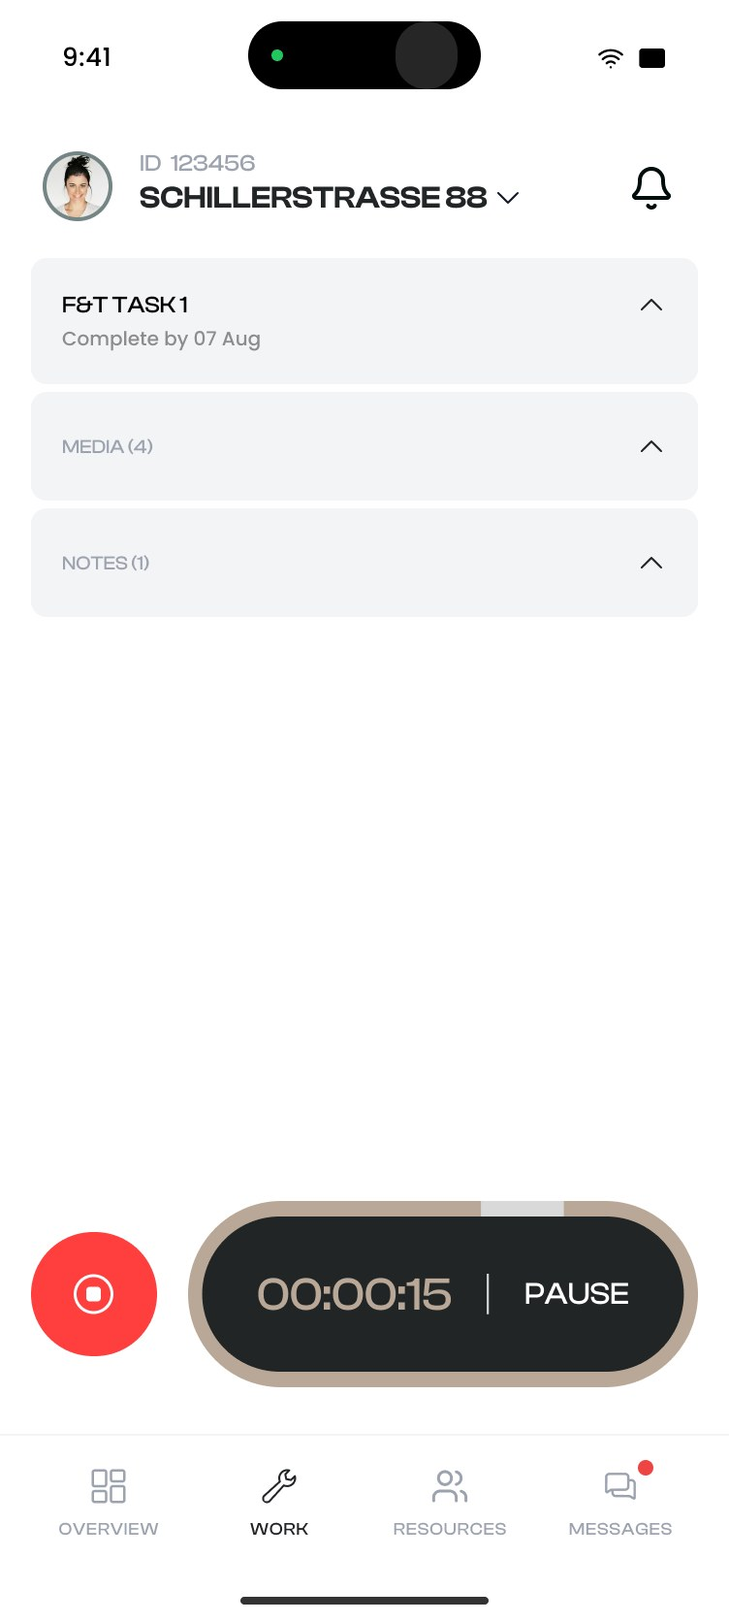
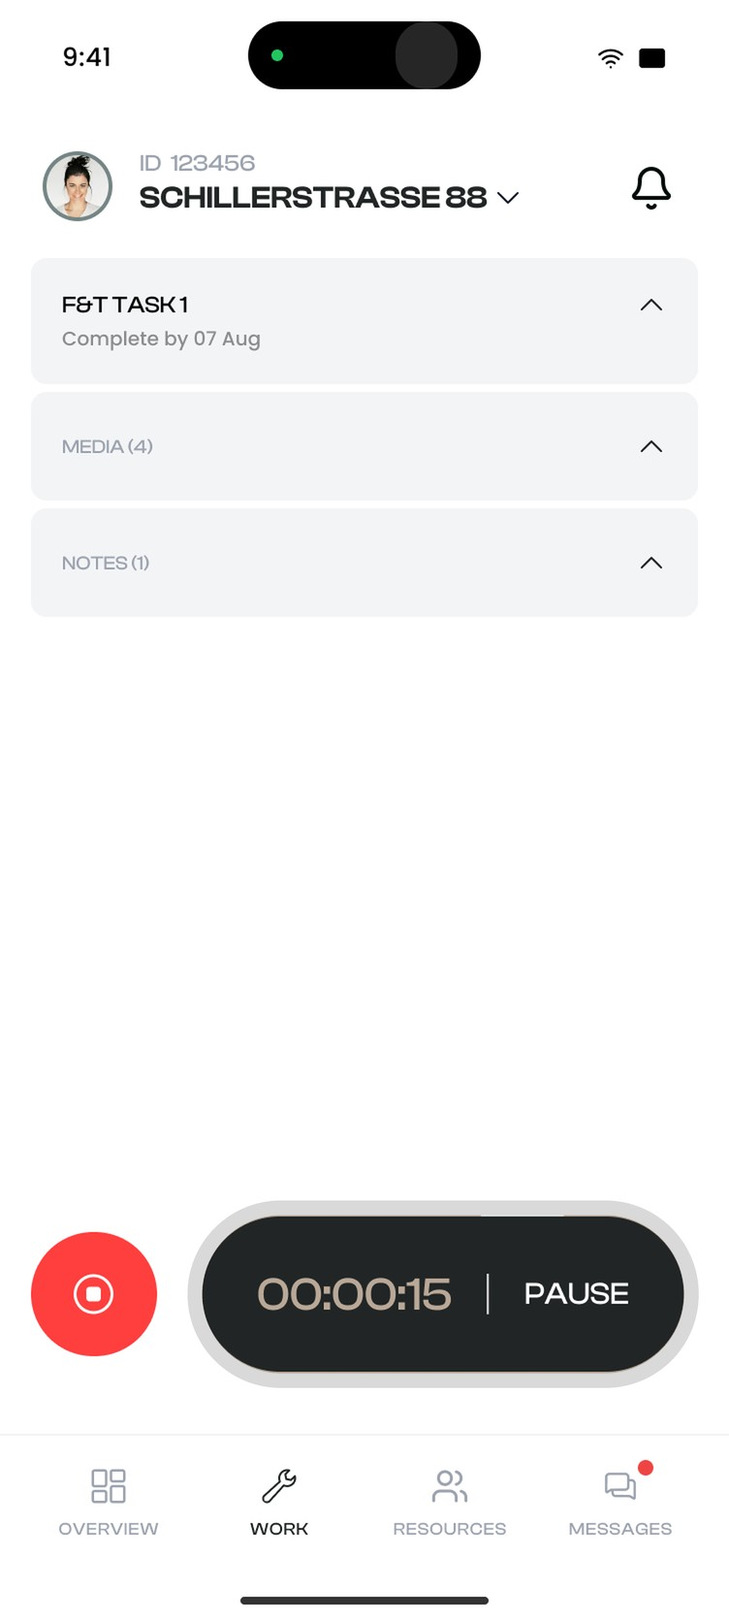
Buildlr timer: grey ring fills bronze clockwise from the top, an hour in ~10s on loop, no pause control
Claude-Session: https://claude.ai/code/session_01MkzssbiWjDzMdy79T6ptKv

Changed region(s): [[0.2447, 0.7153, 0.9787, 0.8708]]

diff --git a/public/de/buildlr.html b/public/de/buildlr.html
@@ -102,22 +102,14 @@
   .tmr { position: relative; border-radius: 22px; overflow: hidden; }
   .tm-st { position: absolute; left: 0; top: 0; width: 752px; height: 1672px; transform-origin: 0 0; pointer-events: none; }
   .tm-st svg { position: absolute; inset: 0; width: 752px; height: 1672px; overflow: visible; }
-  .tm-st rect { fill: none; stroke-width: 17; }
-  /* activity ring: grey fills the tan track clockwise from the top as the task runs toward an hour, as in the Figma design */
-  .tm-base { stroke: #b9a898; }
-  .tm-run { stroke: #d9d9d9; stroke-dasharray: 0 1000; stroke-dashoffset: -137; transition: stroke-dasharray 1s linear; }
+  .tm-st rect { fill: none; stroke-width: 16.5; }
+  /* activity ring: a grey track that fills in bronze, clockwise from the top, as the task runs toward an hour (sped up here) */
+  .tm-base { stroke: #d9d9d9; }
+  .tm-run { stroke: #b9a898; stroke-dasharray: 0 1000; stroke-dashoffset: -137; }
   .tm-cover { position: absolute; background: #212525; }
   .tm-t { position: absolute; left: 266px; top: 1334px; width: 200px; transform: translateY(-50%); font: 500 44px/1 "Clash Display", "Archivo", sans-serif; color: #b9a898; white-space: nowrap; font-variant-numeric: tabular-nums; transform-origin: 0 50%; }
-  .tm-btn { position: absolute; left: 532px; top: 1308px; width: 128px; height: 52px; display: grid; place-items: center; pointer-events: auto; cursor: pointer;
-    font: 500 30px/1 "Clash Display", "Archivo", sans-serif; color: #fff; letter-spacing: .01em; background: #212525; border-radius: 8px; }
-  .tm-btn:focus-visible { outline: 2px solid #fff; outline-offset: 2px; }
   .tm-pulse { position: absolute; left: 33px; top: 1270px; width: 128px; height: 128px; border-radius: 50%; box-shadow: 0 0 0 0 rgba(255,63,62,.45); animation: tmPulse 1.6s ease-out infinite; }
   @keyframes tmPulse { to { box-shadow: 0 0 0 18px rgba(255,63,62,0); } }
-  .tmr.paused .tm-run, .tmr.paused .tm-pulse { animation-play-state: paused; }
-  .tmr.paused .tm-pulse { opacity: 0; }
-  /* paused, as in the design: the ring goes grey and the time dims */
-  .tmr.paused .tm-base { stroke: #d9d9d9; }
-  .tmr.paused .tm-t { color: #3c4141; }
   @media (prefers-reduced-motion: reduce) { .tm-run, .tm-pulse { animation: none; } }
 
   /* ---------- Prompt layers ---------- */
@@ -737,7 +729,7 @@
 <div class="phones flat">
 <figure><img alt="Mobiler Specs-Tab mit Raum-Chips, einem Akkordeon für Boden- und Fliesenarbeiten und einer Aufgabenkarte mit Parametern" height="2086" loading="lazy" src="../assets/bl-m-specs.jpg" width="752"/><figcaption><b>Specs</b>Räume als Chips, Aufgaben als Karten.</figcaption></figure>
 <figure><img alt="Aufgabendetails mit Parametern, vier Fotos von der Baustelle und einer Notiz aus dem Team vor Ort" height="2086" loading="lazy" src="../assets/bl-m-media.jpg" width="752"/><figcaption><b>Aufgabendetails</b>Fotos und Notizen von der Baustelle.</figcaption></figure>
-<figure><div class="tmr" id="blTimer"><img alt="Die Aufgabe, zusammengeklappt auf drei Überschriften, mit laufendem Timer und Pause-Button" height="1672" loading="lazy" src="../assets/bl-m-timer.jpg" width="752"/><div class="tm-st" translate="no"><svg aria-hidden="true" viewbox="0 0 752 1672"><rect class="tm-base" height="176" pathlength="1000" rx="88" width="510" x="202" y="1246"></rect><rect class="tm-run" height="176" pathlength="1000" rx="88" width="510" x="202" y="1246"></rect></svg><span aria-hidden="true" class="tm-pulse"></span><span aria-hidden="true" class="tm-cover" style="left:256px;top:1294px;width:232px;height:80px"></span><b aria-hidden="true" class="tm-t">00:21:15</b><button aria-label="Pause the timer" class="tm-btn" type="button">PAUSE</button></div></div><figcaption><b>In Arbeit</b>Drei Überschriften und ein Timer.</figcaption></figure>
+<figure><div class="tmr" id="blTimer"><img alt="Die Aufgabe, zusammengeklappt auf drei Überschriften, mit laufendem Timer und Pause-Button" height="1672" loading="lazy" src="../assets/bl-m-timer.jpg" width="752"/><div class="tm-st" translate="no"><svg aria-hidden="true" viewbox="0 0 752 1672"><rect class="tm-base" height="178" pathlength="1000" rx="89" width="512" x="201" y="1245"></rect><rect class="tm-run" height="178" pathlength="1000" rx="89" width="512" x="201" y="1245"></rect></svg><span aria-hidden="true" class="tm-pulse"></span><span aria-hidden="true" class="tm-cover" style="left:256px;top:1294px;width:232px;height:80px"></span><b aria-hidden="true" class="tm-t">00:00:00</b></div></div><figcaption><b>In Arbeit</b>Drei Überschriften und ein Timer.</figcaption></figure>
 </div>
 </div>
 </section>
@@ -895,28 +887,25 @@
 })();
 </script>
 <script>
-/* Buildlr field app: the task timer keeps running, and PAUSE works */
+/* Buildlr field app: the task timer, sped up so an hour passes in about ten seconds and the ring visibly fills */
 (() => {
   const box = document.getElementById('blTimer'); if (!box) return;
-  const st = box.querySelector('.tm-st'), t = box.querySelector('.tm-t'), btn = box.querySelector('.tm-btn');
+  const st = box.querySelector('.tm-st'), t = box.querySelector('.tm-t'), ring = box.querySelector('.tm-run');
   new ResizeObserver(() => st.style.transform = `scale(${box.clientWidth / 752})`).observe(box);
   const fit = () => { t.style.transform = 'translateY(-50%)'; const w = t.scrollWidth; if (w) t.style.transform = `translateY(-50%) scaleX(${200 / w})`; };
   (document.fonts ? document.fonts.ready : Promise.resolve()).then(fit);
-  // starts part-way into an hour so the ring has something to show; it keeps filling one second at a time
-  let sec = 21 * 60 + 15, timer = null, paused = false;
-  const ring = box.querySelector('.tm-run');
   const pad = n => String(n).padStart(2, '0');
-  const show = () => { t.textContent = `${pad(Math.floor(sec / 3600))}:${pad(Math.floor(sec / 60) % 60)}:${pad(sec % 60)}`;
-    const f = Math.min(sec / 3600, 1) * 1000; ring.style.strokeDasharray = `${f} ${1000 - f}`; };
-  show();
-  const run = () => { clearInterval(timer); timer = setInterval(() => { sec++; show(); }, 1000); };
-  btn.addEventListener('click', () => {
-    paused = !paused; box.classList.toggle('paused', paused);
-    btn.textContent = paused ? 'RESUME' : 'PAUSE'; btn.setAttribute('aria-label', paused ? 'Resume the timer' : 'Pause the timer');
-    paused ? clearInterval(timer) : run();
-  });
-  if (matchMedia('(prefers-reduced-motion: reduce)').matches) return;
-  new IntersectionObserver(es => es.forEach(e => { if (e.isIntersecting && !paused) run(); else clearInterval(timer); }), { threshold: .3 }).observe(box);
+  const show = sec => { sec = Math.min(Math.floor(sec), 3600);
+    t.textContent = `${pad(Math.floor(sec / 3600))}:${pad(Math.floor(sec / 60) % 60)}:${pad(sec % 60)}`;
+    const f = sec / 3600 * 1000; ring.style.strokeDasharray = `${f} ${1000 - f}`; };
+  if (matchMedia('(prefers-reduced-motion: reduce)').matches) { show(21 * 60 + 15); return; }
+  const HOUR = 10000, HOLD = 1600; // ms for a full hour, then a short pause on a full ring
+  let raf = 0, t0 = 0;
+  const tick = now => { if (!t0) t0 = now; const e = now - t0;
+    if (e < HOUR) show(e / HOUR * 3600); else { show(3600); if (e > HOUR + HOLD) t0 = now; }
+    raf = requestAnimationFrame(tick); };
+  show(0);
+  new IntersectionObserver(es => es.forEach(e => { cancelAnimationFrame(raf); if (e.isIntersecting) { t0 = 0; raf = requestAnimationFrame(tick); } }), { threshold: .3 }).observe(box);
 })();
 </script>
 </body>

diff --git a/public/zh-hans/buildlr.html b/public/zh-hans/buildlr.html
@@ -102,22 +102,14 @@
   .tmr { position: relative; border-radius: 22px; overflow: hidden; }
   .tm-st { position: absolute; left: 0; top: 0; width: 752px; height: 1672px; transform-origin: 0 0; pointer-events: none; }
   .tm-st svg { position: absolute; inset: 0; width: 752px; height: 1672px; overflow: visible; }
-  .tm-st rect { fill: none; stroke-width: 17; }
-  /* activity ring: grey fills the tan track clockwise from the top as the task runs toward an hour, as in the Figma design */
-  .tm-base { stroke: #b9a898; }
-  .tm-run { stroke: #d9d9d9; stroke-dasharray: 0 1000; stroke-dashoffset: -137; transition: stroke-dasharray 1s linear; }
+  .tm-st rect { fill: none; stroke-width: 16.5; }
+  /* activity ring: a grey track that fills in bronze, clockwise from the top, as the task runs toward an hour (sped up here) */
+  .tm-base { stroke: #d9d9d9; }
+  .tm-run { stroke: #b9a898; stroke-dasharray: 0 1000; stroke-dashoffset: -137; }
   .tm-cover { position: absolute; background: #212525; }
   .tm-t { position: absolute; left: 266px; top: 1334px; width: 200px; transform: translateY(-50%); font: 500 44px/1 "Clash Display", "Archivo", sans-serif; color: #b9a898; white-space: nowrap; font-variant-numeric: tabular-nums; transform-origin: 0 50%; }
-  .tm-btn { position: absolute; left: 532px; top: 1308px; width: 128px; height: 52px; display: grid; place-items: center; pointer-events: auto; cursor: pointer;
-    font: 500 30px/1 "Clash Display", "Archivo", sans-serif; color: #fff; letter-spacing: .01em; background: #212525; border-radius: 8px; }
-  .tm-btn:focus-visible { outline: 2px solid #fff; outline-offset: 2px; }
   .tm-pulse { position: absolute; left: 33px; top: 1270px; width: 128px; height: 128px; border-radius: 50%; box-shadow: 0 0 0 0 rgba(255,63,62,.45); animation: tmPulse 1.6s ease-out infinite; }
   @keyframes tmPulse { to { box-shadow: 0 0 0 18px rgba(255,63,62,0); } }
-  .tmr.paused .tm-run, .tmr.paused .tm-pulse { animation-play-state: paused; }
-  .tmr.paused .tm-pulse { opacity: 0; }
-  /* paused, as in the design: the ring goes grey and the time dims */
-  .tmr.paused .tm-base { stroke: #d9d9d9; }
-  .tmr.paused .tm-t { color: #3c4141; }
   @media (prefers-reduced-motion: reduce) { .tm-run, .tm-pulse { animation: none; } }
 
   /* ---------- Prompt layers ---------- */
@@ -738,7 +730,7 @@
 <div class="phones flat">
 <figure><img alt="移动端规格页，包含房间标签、“地板与瓷砖”折叠面板和带参数的任务卡片" height="2086" loading="lazy" src="../assets/bl-m-specs.jpg" width="752"/><figcaption><b>规格</b>房间做成标签，任务做成卡片。</figcaption></figure>
 <figure><img alt="任务详情，包含参数、四张现场照片和工人的备注" height="2086" loading="lazy" src="../assets/bl-m-media.jpg" width="752"/><figcaption><b>任务详情</b>来自现场的照片和备注。</figcaption></figure>
-<figure><div class="tmr" id="blTimer"><img alt="收起后的任务，只剩三个标题、一个正在计时的计时器和暂停按钮" height="1672" loading="lazy" src="../assets/bl-m-timer.jpg" width="752"/><div class="tm-st" translate="no"><svg aria-hidden="true" viewbox="0 0 752 1672"><rect class="tm-base" height="176" pathlength="1000" rx="88" width="510" x="202" y="1246"></rect><rect class="tm-run" height="176" pathlength="1000" rx="88" width="510" x="202" y="1246"></rect></svg><span aria-hidden="true" class="tm-pulse"></span><span aria-hidden="true" class="tm-cover" style="left:256px;top:1294px;width:232px;height:80px"></span><b aria-hidden="true" class="tm-t">00:21:15</b><button aria-label="Pause the timer" class="tm-btn" type="button">PAUSE</button></div></div><figcaption><b>进行中</b>三个标题，一个计时器。</figcaption></figure>
+<figure><div class="tmr" id="blTimer"><img alt="收起后的任务，只剩三个标题、一个正在计时的计时器和暂停按钮" height="1672" loading="lazy" src="../assets/bl-m-timer.jpg" width="752"/><div class="tm-st" translate="no"><svg aria-hidden="true" viewbox="0 0 752 1672"><rect class="tm-base" height="178" pathlength="1000" rx="89" width="512" x="201" y="1245"></rect><rect class="tm-run" height="178" pathlength="1000" rx="89" width="512" x="201" y="1245"></rect></svg><span aria-hidden="true" class="tm-pulse"></span><span aria-hidden="true" class="tm-cover" style="left:256px;top:1294px;width:232px;height:80px"></span><b aria-hidden="true" class="tm-t">00:00:00</b></div></div><figcaption><b>进行中</b>三个标题，一个计时器。</figcaption></figure>
 </div>
 </div>
 </section>
@@ -896,28 +888,25 @@
 })();
 </script>
 <script>
-/* Buildlr field app: the task timer keeps running, and PAUSE works */
+/* Buildlr field app: the task timer, sped up so an hour passes in about ten seconds and the ring visibly fills */
 (() => {
   const box = document.getElementById('blTimer'); if (!box) return;
-  const st = box.querySelector('.tm-st'), t = box.querySelector('.tm-t'), btn = box.querySelector('.tm-btn');
+  const st = box.querySelector('.tm-st'), t = box.querySelector('.tm-t'), ring = box.querySelector('.tm-run');
   new ResizeObserver(() => st.style.transform = `scale(${box.clientWidth / 752})`).observe(box);
   const fit = () => { t.style.transform = 'translateY(-50%)'; const w = t.scrollWidth; if (w) t.style.transform = `translateY(-50%) scaleX(${200 / w})`; };
   (document.fonts ? document.fonts.ready : Promise.resolve()).then(fit);
-  // starts part-way into an hour so the ring has something to show; it keeps filling one second at a time
-  let sec = 21 * 60 + 15, timer = null, paused = false;
-  const ring = box.querySelector('.tm-run');
   const pad = n => String(n).padStart(2, '0');
-  const show = () => { t.textContent = `${pad(Math.floor(sec / 3600))}:${pad(Math.floor(sec / 60) % 60)}:${pad(sec % 60)}`;
-    const f = Math.min(sec / 3600, 1) * 1000; ring.style.strokeDasharray = `${f} ${1000 - f}`; };
-  show();
-  const run = () => { clearInterval(timer); timer = setInterval(() => { sec++; show(); }, 1000); };
-  btn.addEventListener('click', () => {
-    paused = !paused; box.classList.toggle('paused', paused);
-    btn.textContent = paused ? 'RESUME' : 'PAUSE'; btn.setAttribute('aria-label', paused ? 'Resume the timer' : 'Pause the timer');
-    paused ? clearInterval(timer) : run();
-  });
-  if (matchMedia('(prefers-reduced-motion: reduce)').matches) return;
-  new IntersectionObserver(es => es.forEach(e => { if (e.isIntersecting && !paused) run(); else clearInterval(timer); }), { threshold: .3 }).observe(box);
+  const show = sec => { sec = Math.min(Math.floor(sec), 3600);
+    t.textContent = `${pad(Math.floor(sec / 3600))}:${pad(Math.floor(sec / 60) % 60)}:${pad(sec % 60)}`;
+    const f = sec / 3600 * 1000; ring.style.strokeDasharray = `${f} ${1000 - f}`; };
+  if (matchMedia('(prefers-reduced-motion: reduce)').matches) { show(21 * 60 + 15); return; }
+  const HOUR = 10000, HOLD = 1600; // ms for a full hour, then a short pause on a full ring
+  let raf = 0, t0 = 0;
+  const tick = now => { if (!t0) t0 = now; const e = now - t0;
+    if (e < HOUR) show(e / HOUR * 3600); else { show(3600); if (e > HOUR + HOLD) t0 = now; }
+    raf = requestAnimationFrame(tick); };
+  show(0);
+  new IntersectionObserver(es => es.forEach(e => { cancelAnimationFrame(raf); if (e.isIntersecting) { t0 = 0; raf = requestAnimationFrame(tick); } }), { threshold: .3 }).observe(box);
 })();
 </script>
 </body>

diff --git a/public/ko/buildlr.html b/public/ko/buildlr.html
@@ -102,22 +102,14 @@
   .tmr { position: relative; border-radius: 22px; overflow: hidden; }
   .tm-st { position: absolute; left: 0; top: 0; width: 752px; height: 1672px; transform-origin: 0 0; pointer-events: none; }
   .tm-st svg { position: absolute; inset: 0; width: 752px; height: 1672px; overflow: visible; }
-  .tm-st rect { fill: none; stroke-width: 17; }
-  /* activity ring: grey fills the tan track clockwise from the top as the task runs toward an hour, as in the Figma design */
-  .tm-base { stroke: #b9a898; }
-  .tm-run { stroke: #d9d9d9; stroke-dasharray: 0 1000; stroke-dashoffset: -137; transition: stroke-dasharray 1s linear; }
+  .tm-st rect { fill: none; stroke-width: 16.5; }
+  /* activity ring: a grey track that fills in bronze, clockwise from the top, as the task runs toward an hour (sped up here) */
+  .tm-base { stroke: #d9d9d9; }
+  .tm-run { stroke: #b9a898; stroke-dasharray: 0 1000; stroke-dashoffset: -137; }
   .tm-cover { position: absolute; background: #212525; }
   .tm-t { position: absolute; left: 266px; top: 1334px; width: 200px; transform: translateY(-50%); font: 500 44px/1 "Clash Display", "Archivo", sans-serif; color: #b9a898; white-space: nowrap; font-variant-numeric: tabular-nums; transform-origin: 0 50%; }
-  .tm-btn { position: absolute; left: 532px; top: 1308px; width: 128px; height: 52px; display: grid; place-items: center; pointer-events: auto; cursor: pointer;
-    font: 500 30px/1 "Clash Display", "Archivo", sans-serif; color: #fff; letter-spacing: .01em; background: #212525; border-radius: 8px; }
-  .tm-btn:focus-visible { outline: 2px solid #fff; outline-offset: 2px; }
   .tm-pulse { position: absolute; left: 33px; top: 1270px; width: 128px; height: 128px; border-radius: 50%; box-shadow: 0 0 0 0 rgba(255,63,62,.45); animation: tmPulse 1.6s ease-out infinite; }
   @keyframes tmPulse { to { box-shadow: 0 0 0 18px rgba(255,63,62,0); } }
-  .tmr.paused .tm-run, .tmr.paused .tm-pulse { animation-play-state: paused; }
-  .tmr.paused .tm-pulse { opacity: 0; }
-  /* paused, as in the design: the ring goes grey and the time dims */
-  .tmr.paused .tm-base { stroke: #d9d9d9; }
-  .tmr.paused .tm-t { color: #3c4141; }
   @media (prefers-reduced-motion: reduce) { .tm-run, .tm-pulse { animation: none; } }
 
   /* ---------- Prompt layers ---------- */
@@ -738,7 +730,7 @@
 <div class="phones flat">
 <figure><img alt="공간 칩, Flooring and tiling 아코디언, 파라미터가 있는 작업 카드가 보이는 모바일 사양 탭" height="2086" loading="lazy" src="../assets/bl-m-specs.jpg" width="752"/><figcaption><b>사양</b>공간은 칩으로, 작업은 카드로.</figcaption></figure>
 <figure><img alt="파라미터, 현장 사진 4장, 작업자 메모가 있는 작업 상세" height="2086" loading="lazy" src="../assets/bl-m-media.jpg" width="752"/><figcaption><b>작업 상세</b>현장 사진과 메모.</figcaption></figure>
-<figure><div class="tmr" id="blTimer"><img alt="실행 중인 타이머와 일시정지 버튼, 헤더 세 개로 접힌 작업" height="1672" loading="lazy" src="../assets/bl-m-timer.jpg" width="752"/><div class="tm-st" translate="no"><svg aria-hidden="true" viewbox="0 0 752 1672"><rect class="tm-base" height="176" pathlength="1000" rx="88" width="510" x="202" y="1246"></rect><rect class="tm-run" height="176" pathlength="1000" rx="88" width="510" x="202" y="1246"></rect></svg><span aria-hidden="true" class="tm-pulse"></span><span aria-hidden="true" class="tm-cover" style="left:256px;top:1294px;width:232px;height:80px"></span><b aria-hidden="true" class="tm-t">00:21:15</b><button aria-label="Pause the timer" class="tm-btn" type="button">PAUSE</button></div></div><figcaption><b>작업 중</b>헤더 세 개와 타이머.</figcaption></figure>
+<figure><div class="tmr" id="blTimer"><img alt="실행 중인 타이머와 일시정지 버튼, 헤더 세 개로 접힌 작업" height="1672" loading="lazy" src="../assets/bl-m-timer.jpg" width="752"/><div class="tm-st" translate="no"><svg aria-hidden="true" viewbox="0 0 752 1672"><rect class="tm-base" height="178" pathlength="1000" rx="89" width="512" x="201" y="1245"></rect><rect class="tm-run" height="178" pathlength="1000" rx="89" width="512" x="201" y="1245"></rect></svg><span aria-hidden="true" class="tm-pulse"></span><span aria-hidden="true" class="tm-cover" style="left:256px;top:1294px;width:232px;height:80px"></span><b aria-hidden="true" class="tm-t">00:00:00</b></div></div><figcaption><b>작업 중</b>헤더 세 개와 타이머.</figcaption></figure>
 </div>
 </div>
 </section>
@@ -896,28 +888,25 @@
 })();
 </script>
 <script>
-/* Buildlr field app: the task timer keeps running, and PAUSE works */
+/* Buildlr field app: the task timer, sped up so an hour passes in about ten seconds and the ring visibly fills */
 (() => {
   const box = document.getElementById('blTimer'); if (!box) return;
-  const st = box.querySelector('.tm-st'), t = box.querySelector('.tm-t'), btn = box.querySelector('.tm-btn');
+  const st = box.querySelector('.tm-st'), t = box.querySelector('.tm-t'), ring = box.querySelector('.tm-run');
   new ResizeObserver(() => st.style.transform = `scale(${box.clientWidth / 752})`).observe(box);
   const fit = () => { t.style.transform = 'translateY(-50%)'; const w = t.scrollWidth; if (w) t.style.transform = `translateY(-50%) scaleX(${200 / w})`; };
   (document.fonts ? document.fonts.ready : Promise.resolve()).then(fit);
-  // starts part-way into an hour so the ring has something to show; it keeps filling one second at a time
-  let sec = 21 * 60 + 15, timer = null, paused = false;
-  const ring = box.querySelector('.tm-run');
   const pad = n => String(n).padStart(2, '0');
-  const show = () => { t.textContent = `${pad(Math.floor(sec / 3600))}:${pad(Math.floor(sec / 60) % 60)}:${pad(sec % 60)}`;
-    const f = Math.min(sec / 3600, 1) * 1000; ring.style.strokeDasharray = `${f} ${1000 - f}`; };
-  show();
-  const run = () => { clearInterval(timer); timer = setInterval(() => { sec++; show(); }, 1000); };
-  btn.addEventListener('click', () => {
-    paused = !paused; box.classList.toggle('paused', paused);
-    btn.textContent = paused ? 'RESUME' : 'PAUSE'; btn.setAttribute('aria-label', paused ? 'Resume the timer' : 'Pause the timer');
-    paused ? clearInterval(timer) : run();
-  });
-  if (matchMedia('(prefers-reduced-motion: reduce)').matches) return;
-  new IntersectionObserver(es => es.forEach(e => { if (e.isIntersecting && !paused) run(); else clearInterval(timer); }), { threshold: .3 }).observe(box);
+  const show = sec => { sec = Math.min(Math.floor(sec), 3600);
+    t.textContent = `${pad(Math.floor(sec / 3600))}:${pad(Math.floor(sec / 60) % 60)}:${pad(sec % 60)}`;
+    const f = sec / 3600 * 1000; ring.style.strokeDasharray = `${f} ${1000 - f}`; };
+  if (matchMedia('(prefers-reduced-motion: reduce)').matches) { show(21 * 60 + 15); return; }
+  const HOUR = 10000, HOLD = 1600; // ms for a full hour, then a short pause on a full ring
+  let raf = 0, t0 = 0;
+  const tick = now => { if (!t0) t0 = now; const e = now - t0;
+    if (e < HOUR) show(e / HOUR * 3600); else { show(3600); if (e > HOUR + HOLD) t0 = now; }
+    raf = requestAnimationFrame(tick); };
+  show(0);
+  new IntersectionObserver(es => es.forEach(e => { cancelAnimationFrame(raf); if (e.isIntersecting) { t0 = 0; raf = requestAnimationFrame(tick); } }), { threshold: .3 }).observe(box);
 })();
 </script>
 </body>

diff --git a/public/zh-hant/buildlr.html b/public/zh-hant/buildlr.html
@@ -102,22 +102,14 @@
   .tmr { position: relative; border-radius: 22px; overflow: hidden; }
   .tm-st { position: absolute; left: 0; top: 0; width: 752px; height: 1672px; transform-origin: 0 0; pointer-events: none; }
   .tm-st svg { position: absolute; inset: 0; width: 752px; height: 1672px; overflow: visible; }
-  .tm-st rect { fill: none; stroke-width: 17; }
-  /* activity ring: grey fills the tan track clockwise from the top as the task runs toward an hour, as in the Figma design */
-  .tm-base { stroke: #b9a898; }
-  .tm-run { stroke: #d9d9d9; stroke-dasharray: 0 1000; stroke-dashoffset: -137; transition: stroke-dasharray 1s linear; }
+  .tm-st rect { fill: none; stroke-width: 16.5; }
+  /* activity ring: a grey track that fills in bronze, clockwise from the top, as the task runs toward an hour (sped up here) */
+  .tm-base { stroke: #d9d9d9; }
+  .tm-run { stroke: #b9a898; stroke-dasharray: 0 1000; stroke-dashoffset: -137; }
   .tm-cover { position: absolute; background: #212525; }
   .tm-t { position: absolute; left: 266px; top: 1334px; width: 200px; transform: translateY(-50%); font: 500 44px/1 "Clash Display", "Archivo", sans-serif; color: #b9a898; white-space: nowrap; font-variant-numeric: tabular-nums; transform-origin: 0 50%; }
-  .tm-btn { position: absolute; left: 532px; top: 1308px; width: 128px; height: 52px; display: grid; place-items: center; pointer-events: auto; cursor: pointer;
-    font: 500 30px/1 "Clash Display", "Archivo", sans-serif; color: #fff; letter-spacing: .01em; background: #212525; border-radius: 8px; }
-  .tm-btn:focus-visible { outline: 2px solid #fff; outline-offset: 2px; }
   .tm-pulse { position: absolute; left: 33px; top: 1270px; width: 128px; height: 128px; border-radius: 50%; box-shadow: 0 0 0 0 rgba(255,63,62,.45); animation: tmPulse 1.6s ease-out infinite; }
   @keyframes tmPulse { to { box-shadow: 0 0 0 18px rgba(255,63,62,0); } }
-  .tmr.paused .tm-run, .tmr.paused .tm-pulse { animation-play-state: paused; }
-  .tmr.paused .tm-pulse { opacity: 0; }
-  /* paused, as in the design: the ring goes grey and the time dims */
-  .tmr.paused .tm-base { stroke: #d9d9d9; }
-  .tmr.paused .tm-t { color: #3c4141; }
   @media (prefers-reduced-motion: reduce) { .tm-run, .tm-pulse { animation: none; } }
 
   /* ---------- Prompt layers ---------- */
@@ -738,7 +730,7 @@
 <div class="phones flat">
 <figure><img alt="行動版規格分頁，包含房間標籤、「Flooring and tiling」摺疊選單，以及附參數的任務卡片" height="2086" loading="lazy" src="../assets/bl-m-specs.jpg" width="752"/><figcaption><b>規格</b>房間是標籤，任務是卡片。</figcaption></figure>
 <figure><img alt="任務詳情，包含參數、四張現場照片，以及工人留下的筆記" height="2086" loading="lazy" src="../assets/bl-m-media.jpg" width="752"/><figcaption><b>任務詳情</b>來自現場的照片與筆記。</figcaption></figure>
-<figure><div class="tmr" id="blTimer"><img alt="收合成三個標題的任務，附運作中的計時器與暫停按鈕" height="1672" loading="lazy" src="../assets/bl-m-timer.jpg" width="752"/><div class="tm-st" translate="no"><svg aria-hidden="true" viewbox="0 0 752 1672"><rect class="tm-base" height="176" pathlength="1000" rx="88" width="510" x="202" y="1246"></rect><rect class="tm-run" height="176" pathlength="1000" rx="88" width="510" x="202" y="1246"></rect></svg><span aria-hidden="true" class="tm-pulse"></span><span aria-hidden="true" class="tm-cover" style="left:256px;top:1294px;width:232px;height:80px"></span><b aria-hidden="true" class="tm-t">00:21:15</b><button aria-label="Pause the timer" class="tm-btn" type="button">PAUSE</button></div></div><figcaption><b>進行中</b>三個標題，一個計時器。</figcaption></figure>
+<figure><div class="tmr" id="blTimer"><img alt="收合成三個標題的任務，附運作中的計時器與暫停按鈕" height="1672" loading="lazy" src="../assets/bl-m-timer.jpg" width="752"/><div class="tm-st" translate="no"><svg aria-hidden="true" viewbox="0 0 752 1672"><rect class="tm-base" height="178" pathlength="1000" rx="89" width="512" x="201" y="1245"></rect><rect class="tm-run" height="178" pathlength="1000" rx="89" width="512" x="201" y="1245"></rect></svg><span aria-hidden="true" class="tm-pulse"></span><span aria-hidden="true" class="tm-cover" style="left:256px;top:1294px;width:232px;height:80px"></span><b aria-hidden="true" class="tm-t">00:00:00</b></div></div><figcaption><b>進行中</b>三個標題，一個計時器。</figcaption></figure>
 </div>
 </div>
 </section>
@@ -896,28 +888,25 @@
 })();
 </script>
 <script>
-/* Buildlr field app: the task timer keeps running, and PAUSE works */
+/* Buildlr field app: the task timer, sped up so an hour passes in about ten seconds and the ring visibly fills */
 (() => {
   const box = document.getElementById('blTimer'); if (!box) return;
-  const st = box.querySelector('.tm-st'), t = box.querySelector('.tm-t'), btn = box.querySelector('.tm-btn');
+  const st = box.querySelector('.tm-st'), t = box.querySelector('.tm-t'), ring = box.querySelector('.tm-run');
   new ResizeObserver(() => st.style.transform = `scale(${box.clientWidth / 752})`).observe(box);
   const fit = () => { t.style.transform = 'translateY(-50%)'; const w = t.scrollWidth; if (w) t.style.transform = `translateY(-50%) scaleX(${200 / w})`; };
   (document.fonts ? document.fonts.ready : Promise.resolve()).then(fit);
-  // starts part-way into an hour so the ring has something to show; it keeps filling one second at a time
-  let sec = 21 * 60 + 15, timer = null, paused = false;
-  const ring = box.querySelector('.tm-run');
   const pad = n => String(n).padStart(2, '0');
-  const show = () => { t.textContent = `${pad(Math.floor(sec / 3600))}:${pad(Math.floor(sec / 60) % 60)}:${pad(sec % 60)}`;
-    const f = Math.min(sec / 3600, 1) * 1000; ring.style.strokeDasharray = `${f} ${1000 - f}`; };
-  show();
-  const run = () => { clearInterval(timer); timer = setInterval(() => { sec++; show(); }, 1000); };
-  btn.addEventListener('click', () => {
-    paused = !paused; box.classList.toggle('paused', paused);
-    btn.textContent = paused ? 'RESUME' : 'PAUSE'; btn.setAttribute('aria-label', paused ? 'Resume the timer' : 'Pause the timer');
-    paused ? clearInterval(timer) : run();
-  });
-  if (matchMedia('(prefers-reduced-motion: reduce)').matches) return;
-  new IntersectionObserver(es => es.forEach(e => { if (e.isIntersecting && !paused) run(); else clearInterval(timer); }), { threshold: .3 }).observe(box);
+  const show = sec => { sec = Math.min(Math.floor(sec), 3600);
+    t.textContent = `${pad(Math.floor(sec / 3600))}:${pad(Math.floor(sec / 60) % 60)}:${pad(sec % 60)}`;
+    const f = sec / 3600 * 1000; ring.style.strokeDasharray = `${f} ${1000 - f}`; };
+  if (matchMedia('(prefers-reduced-motion: reduce)').matches) { show(21 * 60 + 15); return; }
+  const HOUR = 10000, HOLD = 1600; // ms for a full hour, then a short pause on a full ring
+  let raf = 0, t0 = 0;
+  const tick = now => { if (!t0) t0 = now; const e = now - t0;
+    if (e < HOUR) show(e / HOUR * 3600); else { show(3600); if (e > HOUR + HOLD) t0 = now; }
+    raf = requestAnimationFrame(tick); };
+  show(0);
+  new IntersectionObserver(es => es.forEach(e => { cancelAnimationFrame(raf); if (e.isIntersecting) { t0 = 0; raf = requestAnimationFrame(tick); } }), { threshold: .3 }).observe(box);
 })();
 </script>
 </body>

diff --git a/public/buildlr.html b/public/buildlr.html
@@ -101,22 +101,14 @@
   .tmr { position: relative; border-radius: 22px; overflow: hidden; }
   .tm-st { position: absolute; left: 0; top: 0; width: 752px; height: 1672px; transform-origin: 0 0; pointer-events: none; }
   .tm-st svg { position: absolute; inset: 0; width: 752px; height: 1672px; overflow: visible; }
-  .tm-st rect { fill: none; stroke-width: 17; }
-  /* activity ring: grey fills the tan track clockwise from the top as the task runs toward an hour, as in the Figma design */
-  .tm-base { stroke: #b9a898; }
-  .tm-run { stroke: #d9d9d9; stroke-dasharray: 0 1000; stroke-dashoffset: -137; transition: stroke-dasharray 1s linear; }
+  .tm-st rect { fill: none; stroke-width: 16.5; }
+  /* activity ring: a grey track that fills in bronze, clockwise from the top, as the task runs toward an hour (sped up here) */
+  .tm-base { stroke: #d9d9d9; }
+  .tm-run { stroke: #b9a898; stroke-dasharray: 0 1000; stroke-dashoffset: -137; }
   .tm-cover { position: absolute; background: #212525; }
   .tm-t { position: absolute; left: 266px; top: 1334px; width: 200px; transform: translateY(-50%); font: 500 44px/1 "Clash Display", "Archivo", sans-serif; color: #b9a898; white-space: nowrap; font-variant-numeric: tabular-nums; transform-origin: 0 50%; }
-  .tm-btn { position: absolute; left: 532px; top: 1308px; width: 128px; height: 52px; display: grid; place-items: center; pointer-events: auto; cursor: pointer;
-    font: 500 30px/1 "Clash Display", "Archivo", sans-serif; color: #fff; letter-spacing: .01em; background: #212525; border-radius: 8px; }
-  .tm-btn:focus-visible { outline: 2px solid #fff; outline-offset: 2px; }
   .tm-pulse { position: absolute; left: 33px; top: 1270px; width: 128px; height: 128px; border-radius: 50%; box-shadow: 0 0 0 0 rgba(255,63,62,.45); animation: tmPulse 1.6s ease-out infinite; }
   @keyframes tmPulse { to { box-shadow: 0 0 0 18px rgba(255,63,62,0); } }
-  .tmr.paused .tm-run, .tmr.paused .tm-pulse { animation-play-state: paused; }
-  .tmr.paused .tm-pulse { opacity: 0; }
-  /* paused, as in the design: the ring goes grey and the time dims */
-  .tmr.paused .tm-base { stroke: #d9d9d9; }
-  .tmr.paused .tm-t { color: #3c4141; }
   @media (prefers-reduced-motion: reduce) { .tm-run, .tm-pulse { animation: none; } }
 
   /* ---------- Prompt layers ---------- */
@@ -753,7 +745,7 @@
       <div class="phones flat">
         <figure><img src="assets/bl-m-specs.jpg" alt="Mobile specs tab with room chips, a Flooring and tiling accordion and a task card with parameters" width="752" height="2086" loading="lazy"><figcaption><b>Specs</b>Rooms as chips, tasks as cards.</figcaption></figure>
         <figure><img src="assets/bl-m-media.jpg" alt="Task detail with parameters, four site photos and a note from the worker" width="752" height="2086" loading="lazy"><figcaption><b>Task detail</b>Photos and notes from site.</figcaption></figure>
-        <figure><div class="tmr" id="blTimer"><img src="assets/bl-m-timer.jpg" alt="The task collapsed to three headers with a running timer and a pause button" width="752" height="1672" loading="lazy"><div class="tm-st" translate="no"><svg viewBox="0 0 752 1672" aria-hidden="true"><rect class="tm-base" x="202" y="1246" width="510" height="176" rx="88" pathLength="1000"/><rect class="tm-run" x="202" y="1246" width="510" height="176" rx="88" pathLength="1000"/></svg><span class="tm-pulse" aria-hidden="true"></span><span class="tm-cover" style="left:256px;top:1294px;width:232px;height:80px" aria-hidden="true"></span><b class="tm-t" aria-hidden="true">00:21:15</b><button class="tm-btn" type="button" aria-label="Pause the timer">PAUSE</button></div></div><figcaption><b>Working</b>Three headers and a timer.</figcaption></figure>
+        <figure><div class="tmr" id="blTimer"><img src="assets/bl-m-timer.jpg" alt="The task collapsed to three headers with a running timer and a pause button" width="752" height="1672" loading="lazy"><div class="tm-st" translate="no"><svg viewBox="0 0 752 1672" aria-hidden="true"><rect class="tm-base" x="201" y="1245" width="512" height="178" rx="89" pathLength="1000"/><rect class="tm-run" x="201" y="1245" width="512" height="178" rx="89" pathLength="1000"/></svg><span class="tm-pulse" aria-hidden="true"></span><span class="tm-cover" style="left:256px;top:1294px;width:232px;height:80px" aria-hidden="true"></span><b class="tm-t" aria-hidden="true">00:00:00</b></div></div><figcaption><b>Working</b>Three headers and a timer.</figcaption></figure>
       </div>
     </div>
   </section>
@@ -915,28 +907,25 @@
 })();
 </script>
 <script>
-/* Buildlr field app: the task timer keeps running, and PAUSE works */
+/* Buildlr field app: the task timer, sped up so an hour passes in about ten seconds and the ring visibly fills */
 (() => {
   const box = document.getElementById('blTimer'); if (!box) return;
-  const st = box.querySelector('.tm-st'), t = box.querySelector('.tm-t'), btn = box.querySelector('.tm-btn');
+  const st = box.querySelector('.tm-st'), t = box.querySelector('.tm-t'), ring = box.querySelector('.tm-run');
   new ResizeObserver(() => st.style.transform = `scale(${box.clientWidth / 752})`).observe(box);
   const fit = () => { t.style.transform = 'translateY(-50%)'; const w = t.scrollWidth; if (w) t.style.transform = `translateY(-50%) scaleX(${200 / w})`; };
   (document.fonts ? document.fonts.ready : Promise.resolve()).then(fit);
-  // starts part-way into an hour so the ring has something to show; it keeps filling one second at a time
-  let sec = 21 * 60 + 15, timer = null, paused = false;
-  const ring = box.querySelector('.tm-run');
   const pad = n => String(n).padStart(2, '0');
-  const show = () => { t.textContent = `${pad(Math.floor(sec / 3600))}:${pad(Math.floor(sec / 60) % 60)}:${pad(sec % 60)}`;
-    const f = Math.min(sec / 3600, 1) * 1000; ring.style.strokeDasharray = `${f} ${1000 - f}`; };
-  show();
-  const run = () => { clearInterval(timer); timer = setInterval(() => { sec++; show(); }, 1000); };
-  btn.addEventListener('click', () => {
-    paused = !paused; box.classList.toggle('paused', paused);
-    btn.textContent = paused ? 'RESUME' : 'PAUSE'; btn.setAttribute('aria-label', paused ? 'Resume the timer' : 'Pause the timer');
-    paused ? clearInterval(timer) : run();
-  });
-  if (matchMedia('(prefers-reduced-motion: reduce)').matches) return;
-  new IntersectionObserver(es => es.forEach(e => { if (e.isIntersecting && !paused) run(); else clearInterval(timer); }), { threshold: .3 }).observe(box);
+  const show = sec => { sec = Math.min(Math.floor(sec), 3600);
+    t.textContent = `${pad(Math.floor(sec / 3600))}:${pad(Math.floor(sec / 60) % 60)}:${pad(sec % 60)}`;
+    const f = sec / 3600 * 1000; ring.style.strokeDasharray = `${f} ${1000 - f}`; };
+  if (matchMedia('(prefers-reduced-motion: reduce)').matches) { show(21 * 60 + 15); return; }
+  const HOUR = 10000, HOLD = 1600; // ms for a full hour, then a short pause on a full ring
+  let raf = 0, t0 = 0;
+  const tick = now => { if (!t0) t0 = now; const e = now - t0;
+    if (e < HOUR) show(e / HOUR * 3600); else { show(3600); if (e > HOUR + HOLD) t0 = now; }
+    raf = requestAnimationFrame(tick); };
+  show(0);
+  new IntersectionObserver(es => es.forEach(e => { cancelAnimationFrame(raf); if (e.isIntersecting) { t0 = 0; raf = requestAnimationFrame(tick); } }), { threshold: .3 }).observe(box);
 })();
 </script>
 </body>
